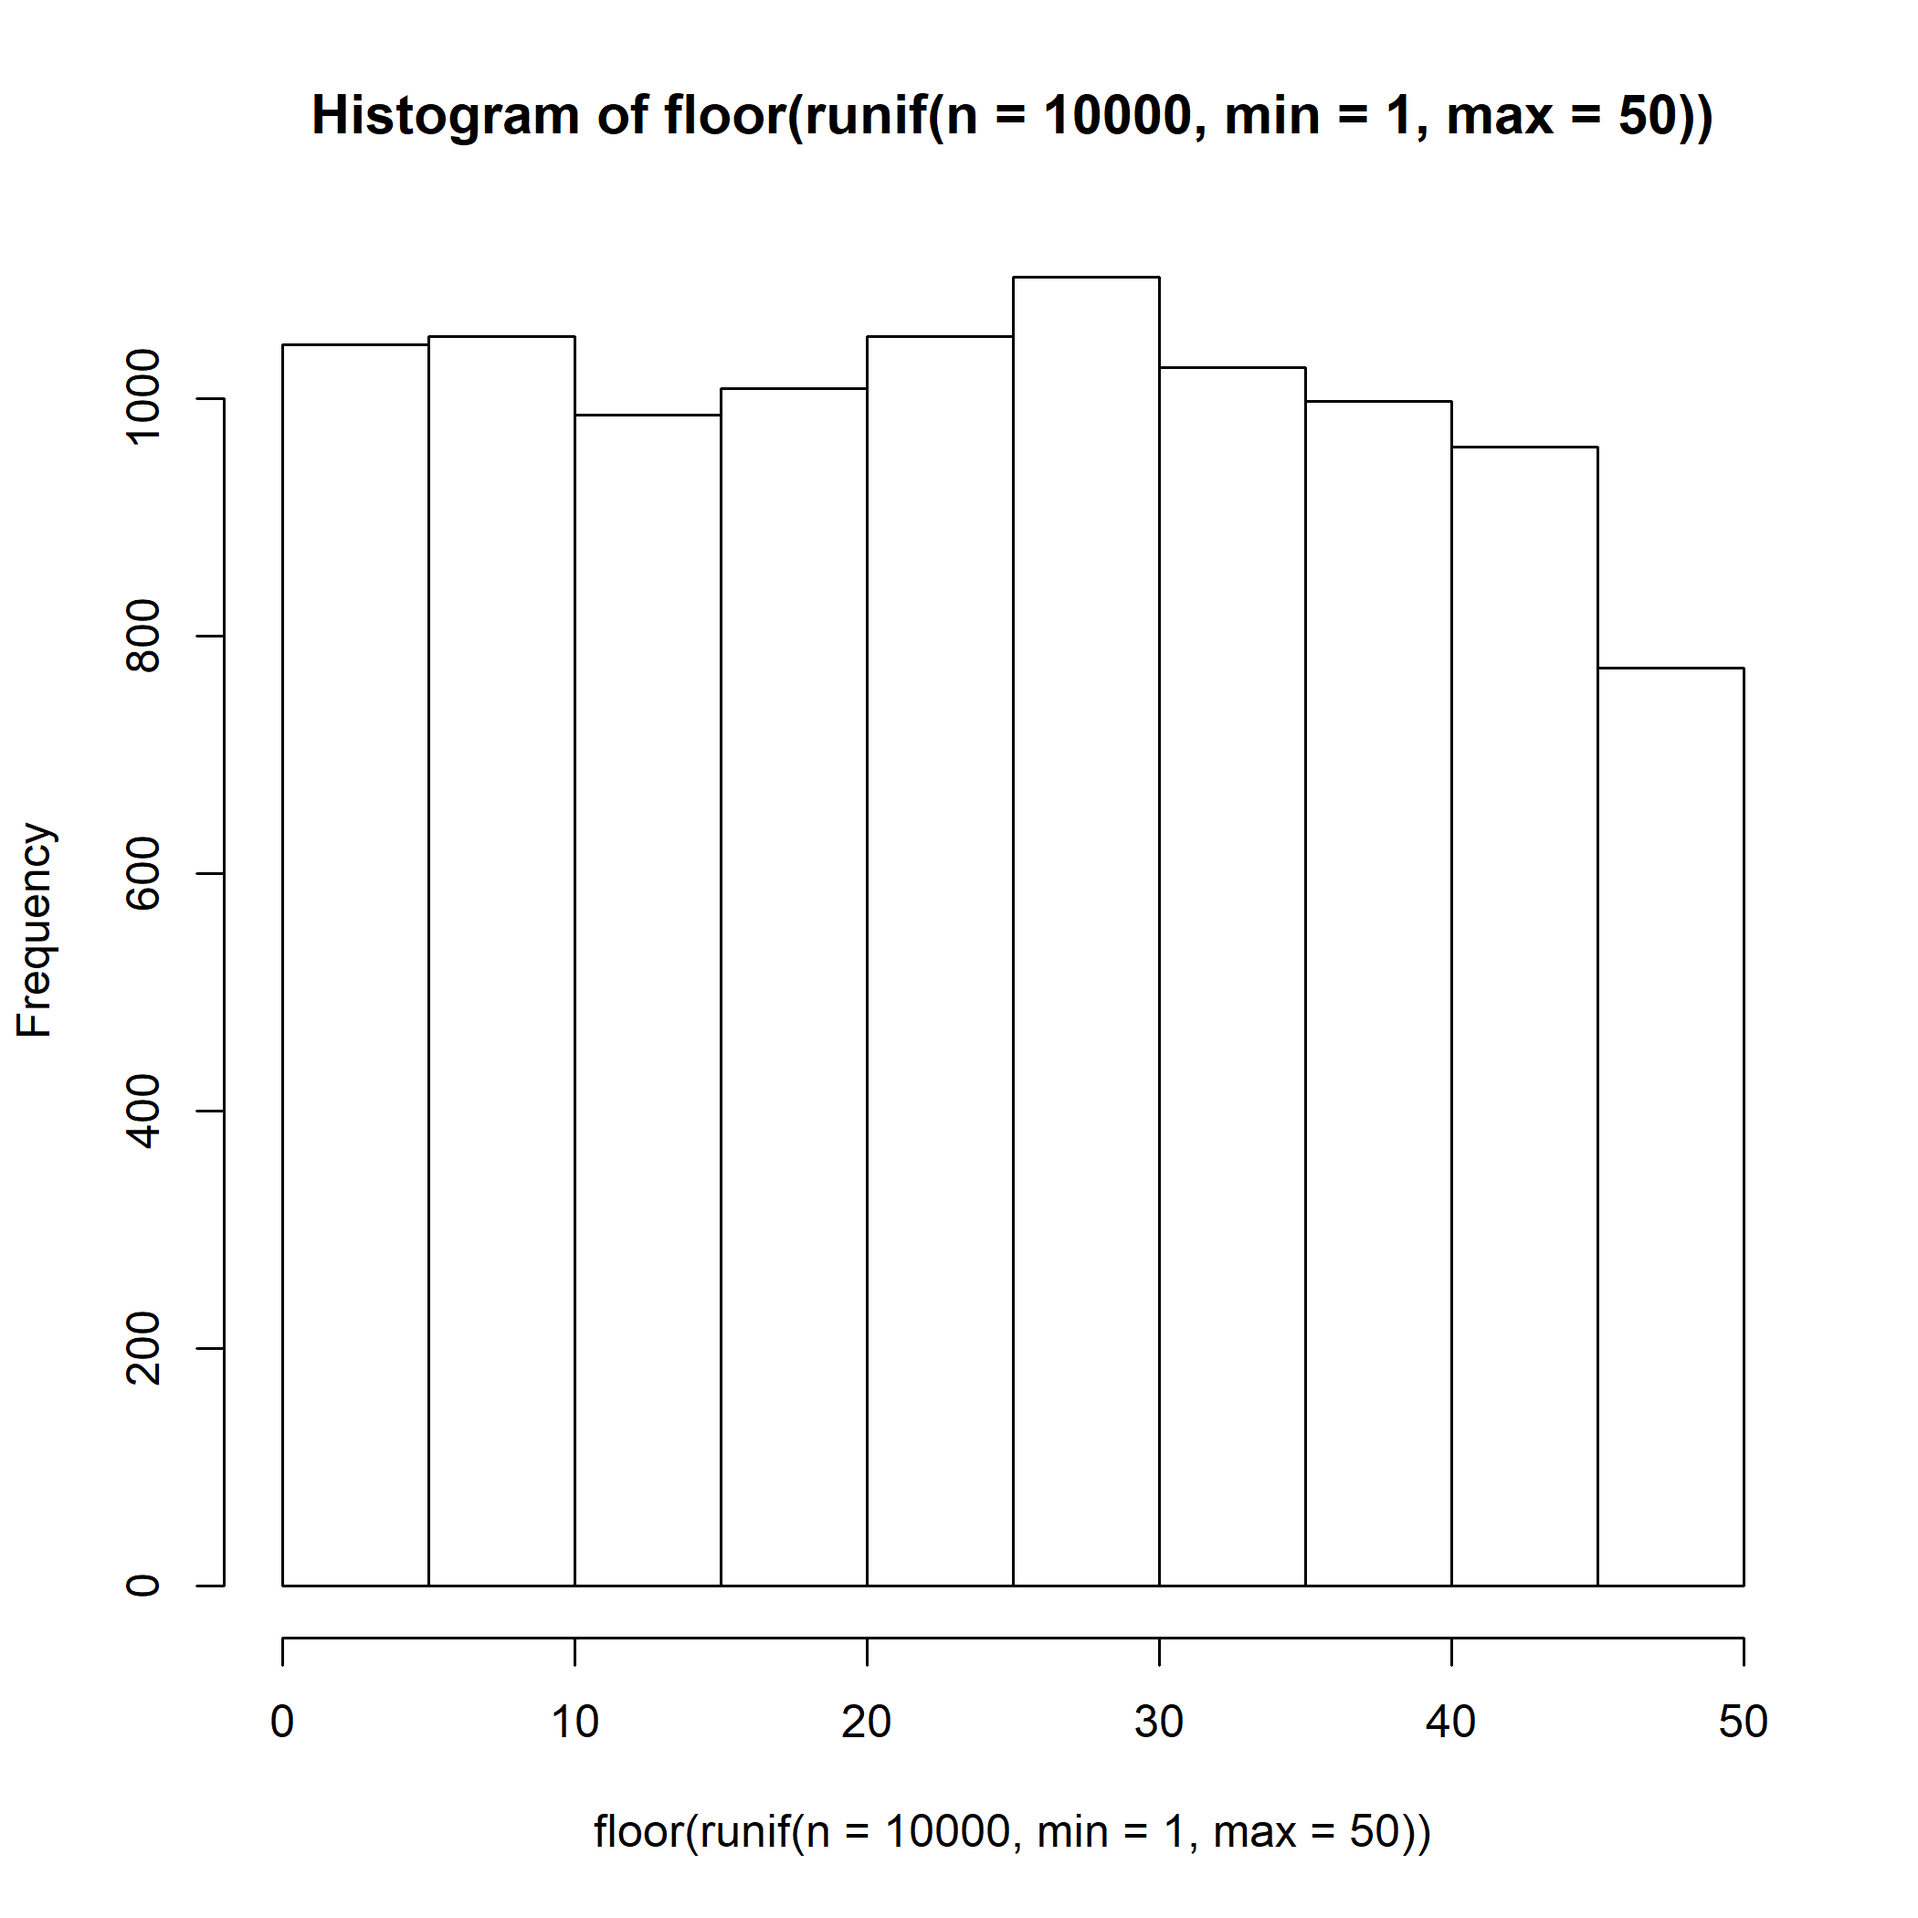
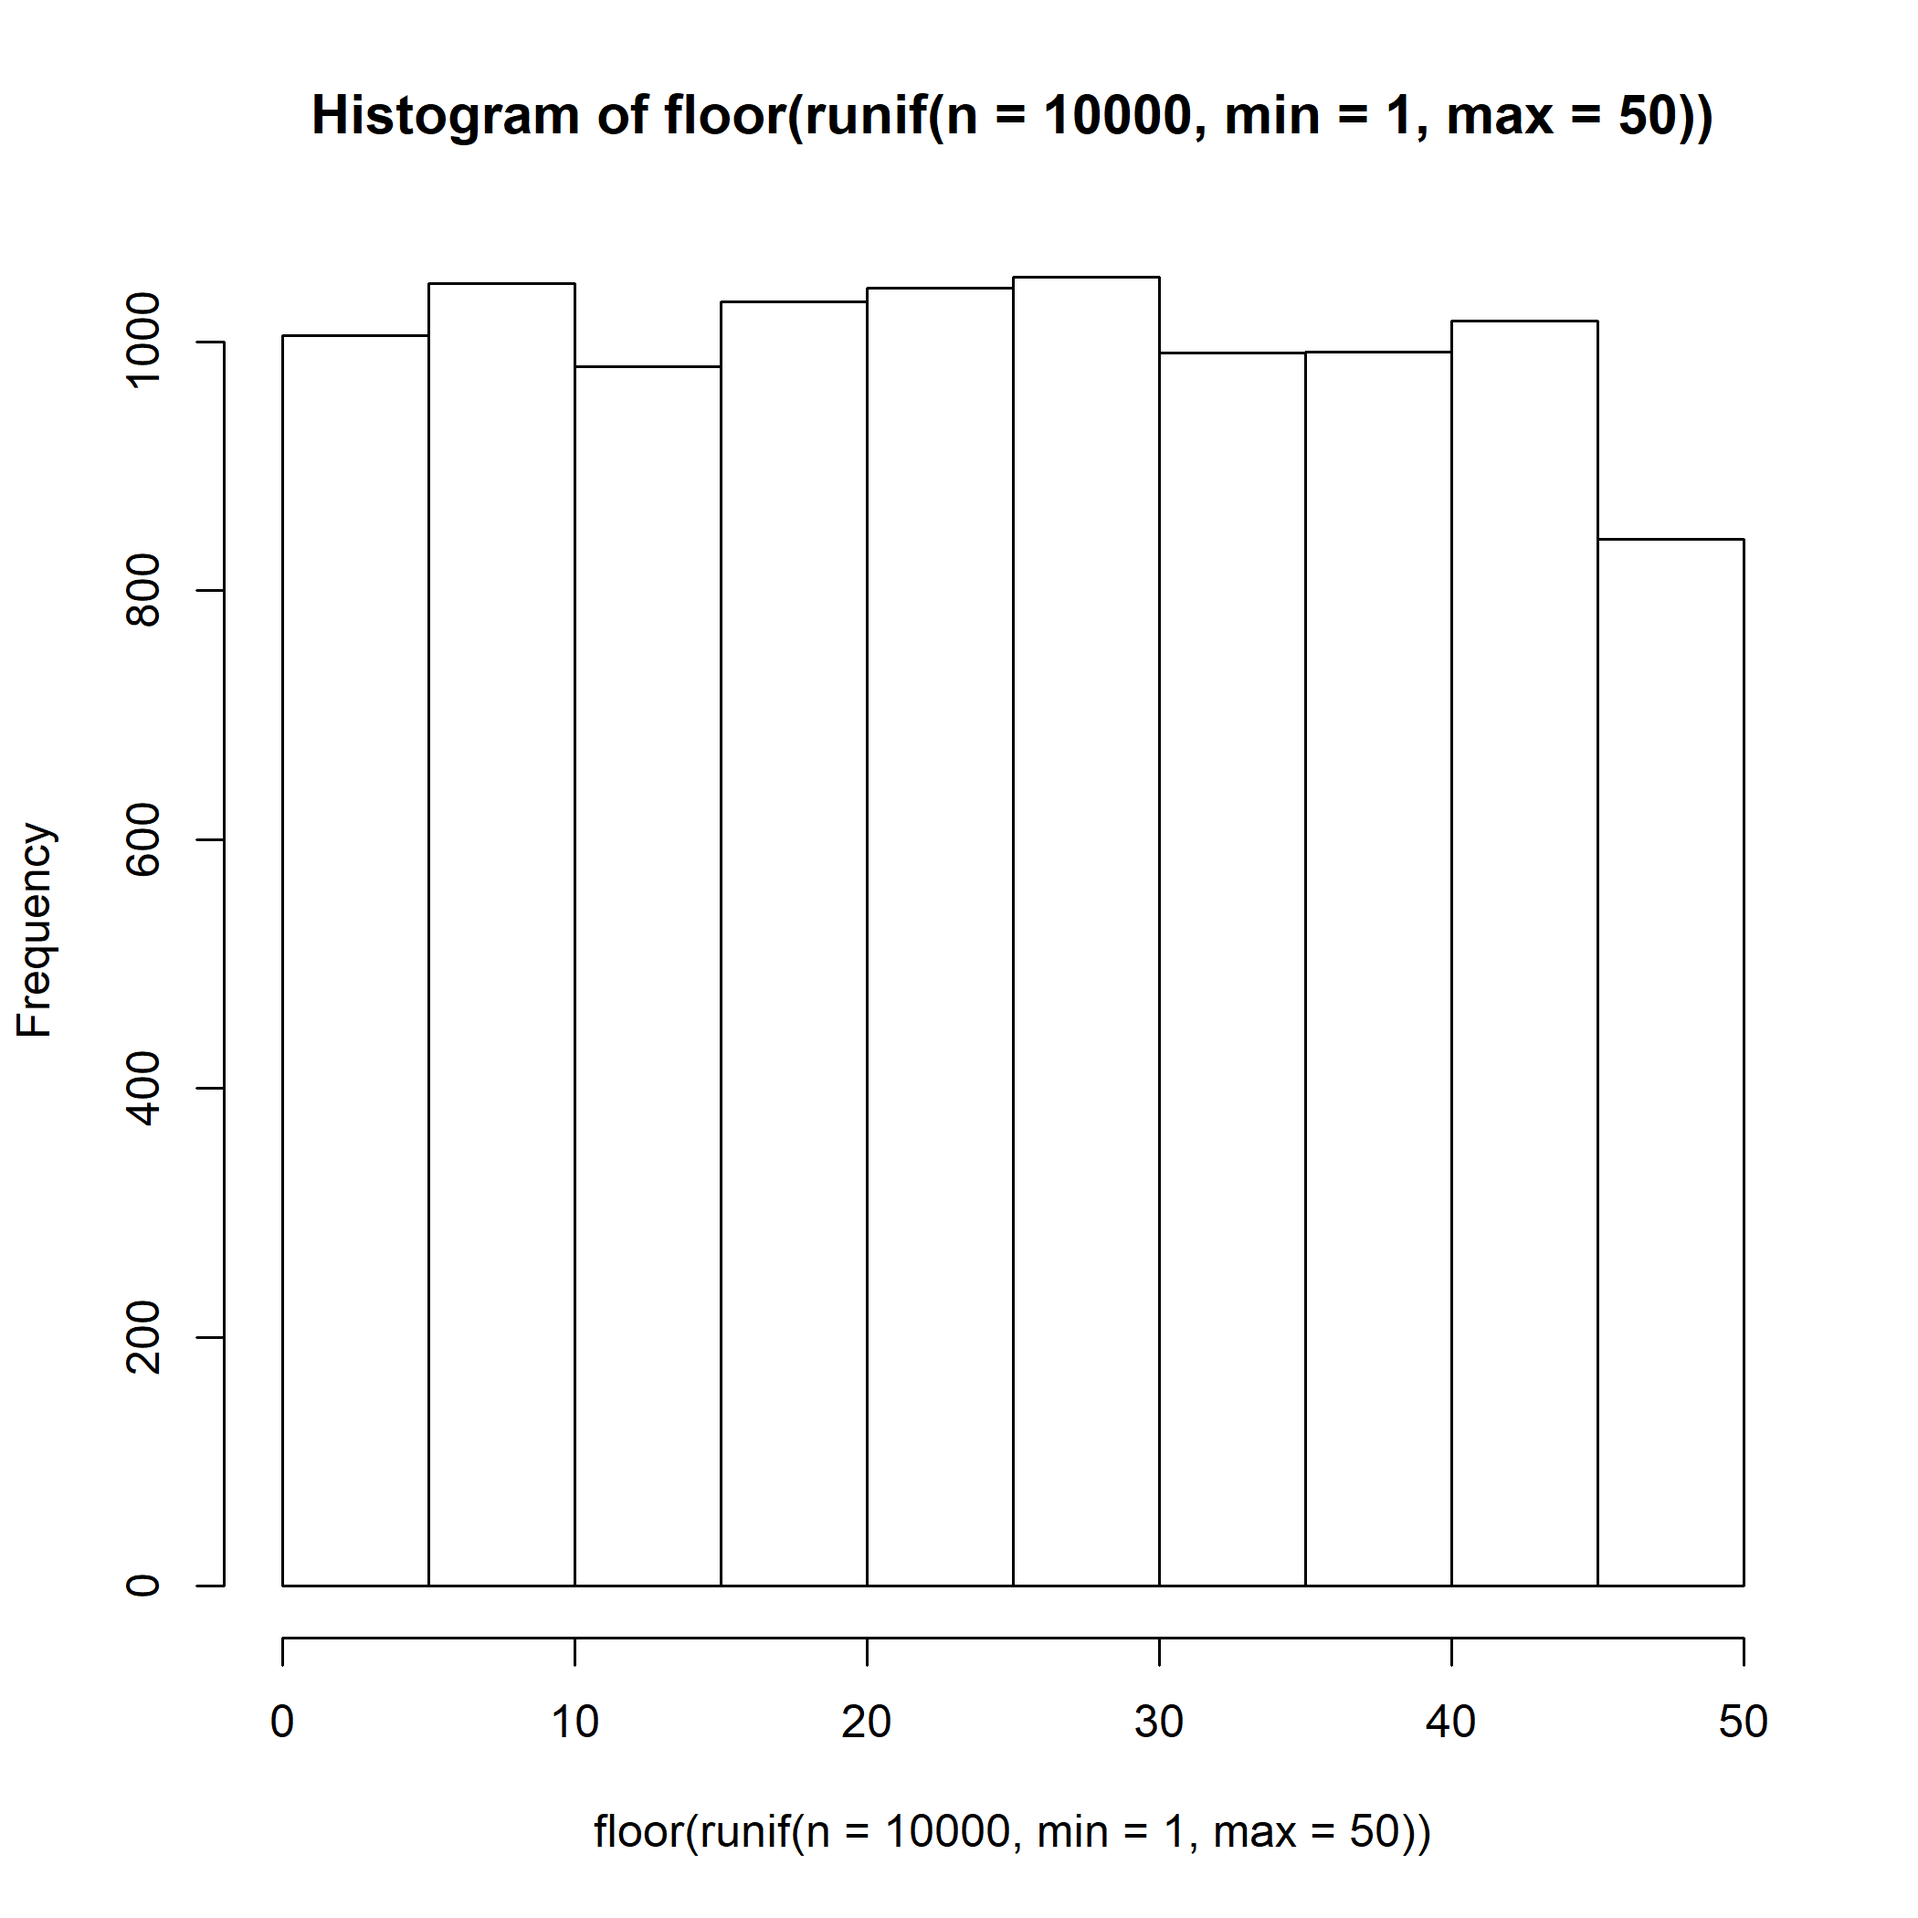
modif

diff --git a/Atelier_3/index.html b/Atelier_3/index.html
@@ -470,11 +470,11 @@ for(etape in 1:5) {
 ```
 
 ```
-## [1] 0.7147598
-## [1] 0.8192959
-## [1] 0.6120275
-## [1] 0.4124644
-## [1] 0.4693701
+## [1] 0.9788685
+## [1] 0.6050295
+## [1] 0.8901521
+## [1] 0.9938406
+## [1] 0.8755713
 ```
 
 ---
@@ -638,12 +638,6 @@ while(combinaison != "pile-pile") {
 ```
 
 ```
-## [1] "face-pile"
-## [1] "face-pile"
-## [1] "pile-face"
-## [1] "face-face"
-## [1] "face-face"
-## [1] "face-face"
 ## [1] "pile-pile"
 ```
 
@@ -673,7 +667,7 @@ mean(res)
 ```
 
 ```
-## [1] 5.9458
+## [1] 6.0348
 ```
 
 ---
@@ -903,17 +897,17 @@ cbind(X,res)
 
 
 ```
-##       X                    res         
-##  [1,] "0.290875831618905"  "plus petit"
-##  [2,] "0.316860190127045"  "plus grand"
-##  [3,] "0.0261578555218875" "plus petit"
-##  [4,] "0.563504523830488"  "plus grand"
-##  [5,] "0.127610219409689"  "plus petit"
-##  [6,] "0.417621419299394"  "plus grand"
-##  [7,] "0.643832694971934"  "plus grand"
-##  [8,] "0.880923317512497"  "plus grand"
-##  [9,] "0.300730875693262"  "plus grand"
-## [10,] "0.0709389019757509" "plus petit"
+##       X                   res         
+##  [1,] "0.98121405323036"  "plus grand"
+##  [2,] "0.899149209726602" "plus grand"
+##  [3,] "0.272092379862443" "plus petit"
+##  [4,] "0.764156578341499" "plus grand"
+##  [5,] "0.676336083095521" "plus grand"
+##  [6,] "0.552554192952812" "plus grand"
+##  [7,] "0.574941063532606" "plus grand"
+##  [8,] "0.996291845338419" "plus grand"
+##  [9,] "0.793035421287641" "plus grand"
+## [10,] "0.340491214301437" "plus grand"
 ```
 ]
 
@@ -957,17 +951,17 @@ cbind(X,res2)
 
 
 ```
-##       X                    res2 
-##  [1,] "0.290875831618905"  "oui"
-##  [2,] "0.316860190127045"  "oui"
-##  [3,] "0.0261578555218875" "non"
-##  [4,] "0.563504523830488"  "oui"
-##  [5,] "0.127610219409689"  "non"
-##  [6,] "0.417621419299394"  "oui"
-##  [7,] "0.643832694971934"  "non"
-##  [8,] "0.880923317512497"  "non"
-##  [9,] "0.300730875693262"  "oui"
-## [10,] "0.0709389019757509" "non"
+##       X                   res2 
+##  [1,] "0.98121405323036"  "non"
+##  [2,] "0.899149209726602" "non"
+##  [3,] "0.272092379862443" "oui"
+##  [4,] "0.764156578341499" "non"
+##  [5,] "0.676336083095521" "non"
+##  [6,] "0.552554192952812" "oui"
+##  [7,] "0.574941063532606" "oui"
+##  [8,] "0.996291845338419" "non"
+##  [9,] "0.793035421287641" "non"
+## [10,] "0.340491214301437" "oui"
 ```
 ]
 
@@ -993,17 +987,17 @@ cbind(X,res2)
     
 
 ```
-##       X                    res2 
-##  [1,] "0.290875831618905"  "oui"
-##  [2,] "0.316860190127045"  "oui"
-##  [3,] "0.0261578555218875" "non"
-##  [4,] "0.563504523830488"  "oui"
-##  [5,] "0.127610219409689"  "non"
-##  [6,] "0.417621419299394"  "oui"
-##  [7,] "0.643832694971934"  "non"
-##  [8,] "0.880923317512497"  "non"
-##  [9,] "0.300730875693262"  "oui"
-## [10,] "0.0709389019757509" "non"
+##       X                   res2 
+##  [1,] "0.98121405323036"  "non"
+##  [2,] "0.899149209726602" "non"
+##  [3,] "0.272092379862443" "oui"
+##  [4,] "0.764156578341499" "non"
+##  [5,] "0.676336083095521" "non"
+##  [6,] "0.552554192952812" "oui"
+##  [7,] "0.574941063532606" "oui"
+##  [8,] "0.996291845338419" "non"
+##  [9,] "0.793035421287641" "non"
+## [10,] "0.340491214301437" "oui"
 ```
 ]
 
@@ -1096,7 +1090,7 @@ tirage(3, cartes)
 ```
 
 ```
-## [1] "3 - trèfle" "8 - pique"  "7 - pique"
+## [1] "5 - coeur"   "roi - pique" "2 - carreau"
 ```
 
 ---
@@ -1174,7 +1168,7 @@ rbinom(n = 10, size = 1, prob = 0.5)
 ```
 
 ```
-##  [1] 1 0 0 0 0 0 0 1 0 1
+##  [1] 1 0 1 0 0 0 0 1 1 1
 ```
 ]
 
@@ -1197,12 +1191,12 @@ rmultinom(n = 3, size = 1, prob = rep(1/6, 6))
 
 ```
 ##      [,1] [,2] [,3]
-## [1,]    0    0    0
+## [1,]    0    0    1
 ## [2,]    0    0    0
-## [3,]    0    0    1
-## [4,]    0    1    0
-## [5,]    1    0    0
-## [6,]    0    0    0
+## [3,]    0    1    0
+## [4,]    0    0    0
+## [5,]    0    0    0
+## [6,]    1    0    0
 ```
 ]
 
@@ -1600,7 +1594,7 @@ system.time(tri(x))
 
 ```
 ##    user  system elapsed 
-##    0.25    0.00    0.25
+##    0.27    0.00    0.30
 ```
 
 ---
@@ -1660,7 +1654,7 @@ system.time(f1(x))
 
 ```
 ##    user  system elapsed 
-##    0.04    0.00    0.05
+##    0.05    0.00    0.05
 ```
 
 ```r
@@ -1669,7 +1663,7 @@ system.time(f2(x))
 
 ```
 ##    user  system elapsed 
-##    0.01    0.00    0.01
+##    0.02    0.00    0.01
 ```
 ]
 
@@ -1711,7 +1705,7 @@ system.time(f1(X))
 ##    user  system elapsed 
 ##       0       0       0 
 ##    user  system elapsed 
-##    0.65    0.00    0.65
+##    0.66    0.00    0.65
 ```
 ]
 
